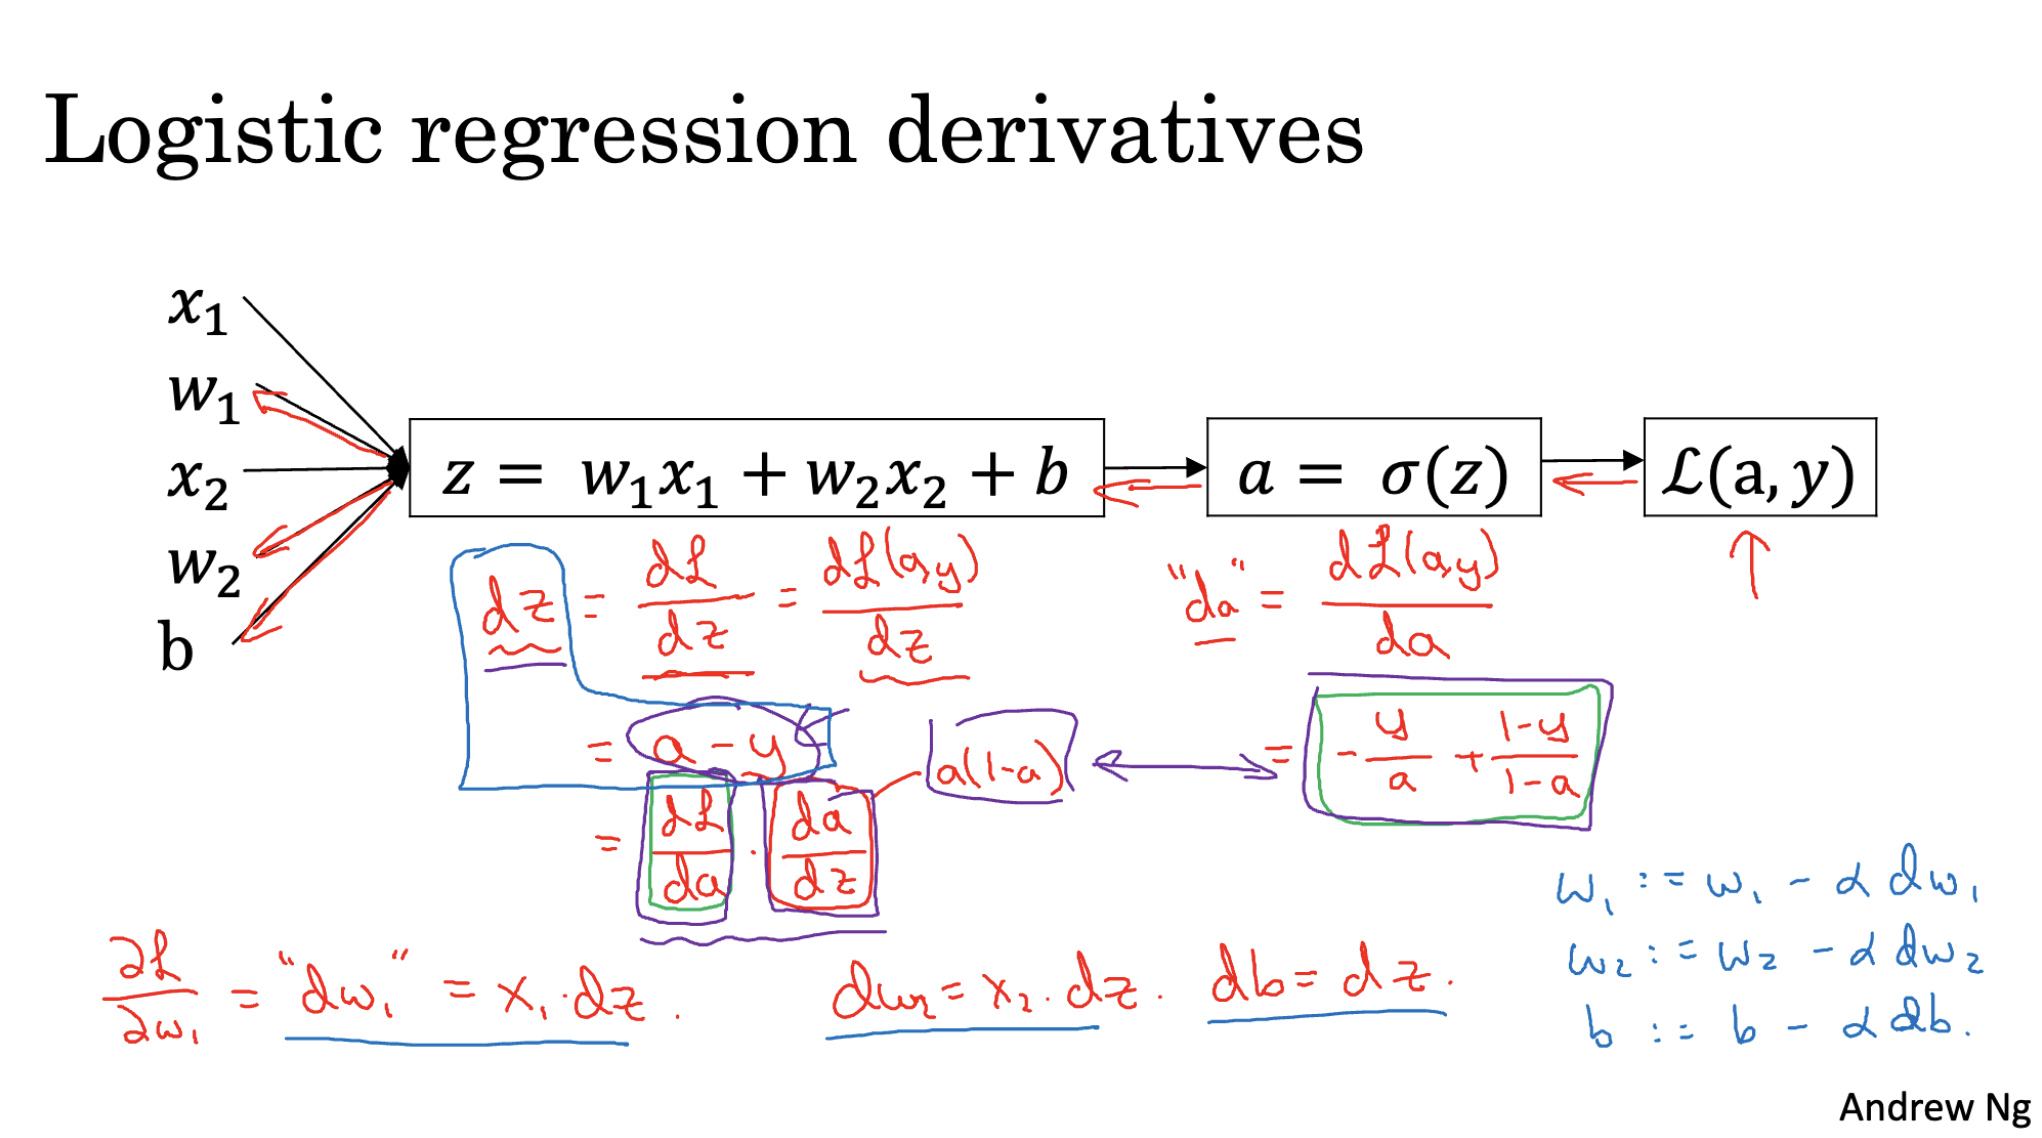
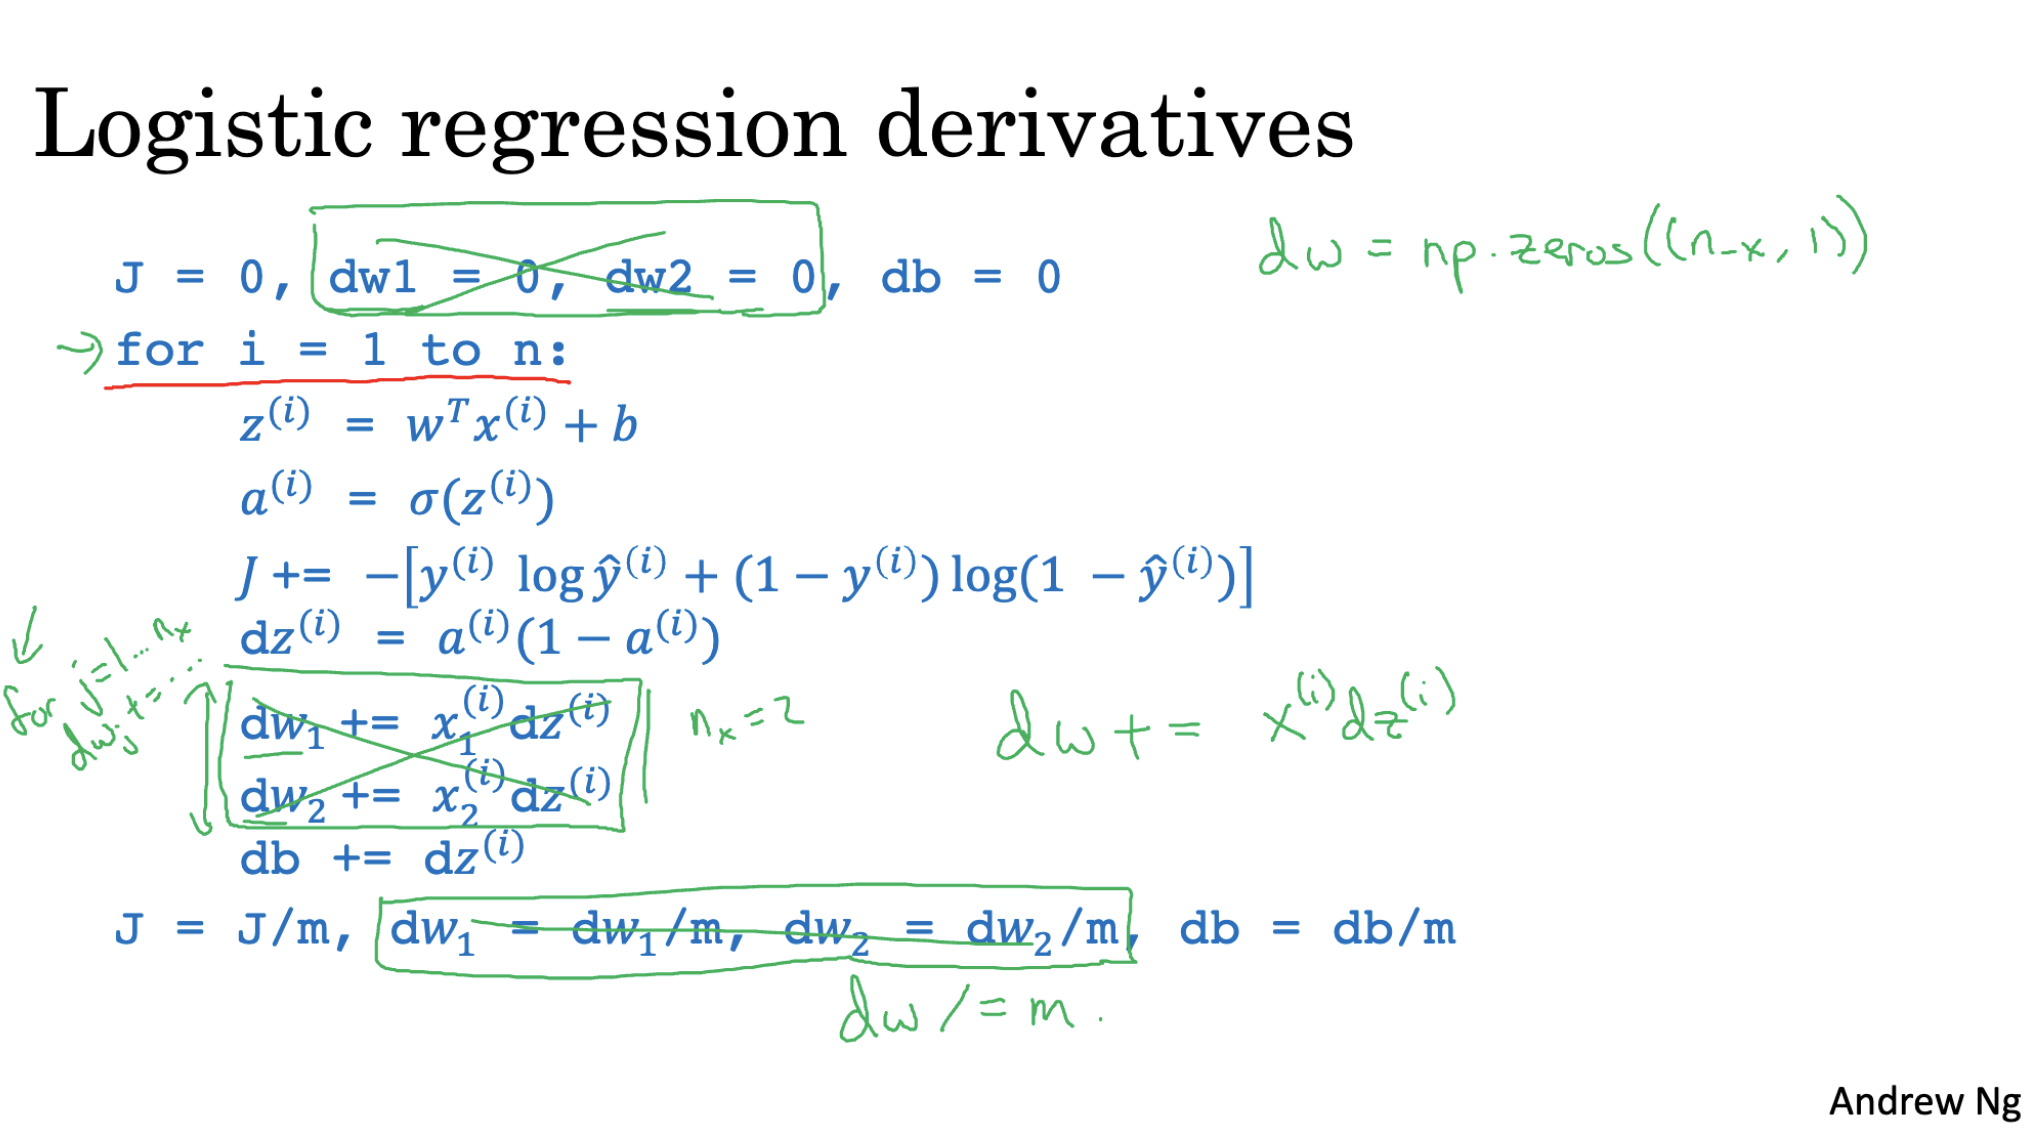
Course1

diff --git a/Notes/Course1/C1Week2.md b/Notes/Course1/C1Week2.md
@@ -135,7 +135,33 @@ We want to train a logistic regression model on all of them using vectorized mat
 ---
 
 # Vectorization
+- The main idea behind vectorization is to avoid using explicit for loops when working with data in neural networks.
+- Instead of processing one training example at a time, we work with entire arrays (vectors/matrices) at once.
+- This makes the implementation faster and more efficient, especially with large datasets.
+- Libraries like NumPy, TensorFlow, and PyTorch are optimized to perform these vectorized operations very quickly.
+- In a vectorized implementation, we directly compute dot products and other operations using matrix algebra, without looping manually.
 
+<img src="Images/WhatVectoriaztion.png" alt="What is Vectorization" width="800">
 
+### Vectorizing Logistic Regression
+Perform logistic regression over `m` training examples without using loops.
 
+<img src="Images/VectorizingLR" alt="VectorizingLR" width="800">
+
+### Implementation of Logistic Regression
+
+<img src="Images/ImplementLR.png" alt="Implementing Logistic Regression" width="800">
+
+---
+
+# Broadcasting
+Broadcasting is a technique used in NumPy to perform operations on arrays of different shapes — without explicitly copying or looping.
+
+<img src="Images/Broadcasting.png" alt="Broadcasting" width="800">
+
+### General Principle of Broadcasting
+
+<img src="Images/GeneralBroadcasting.png" alt="GPBroad" width="800">
+
+---
 
